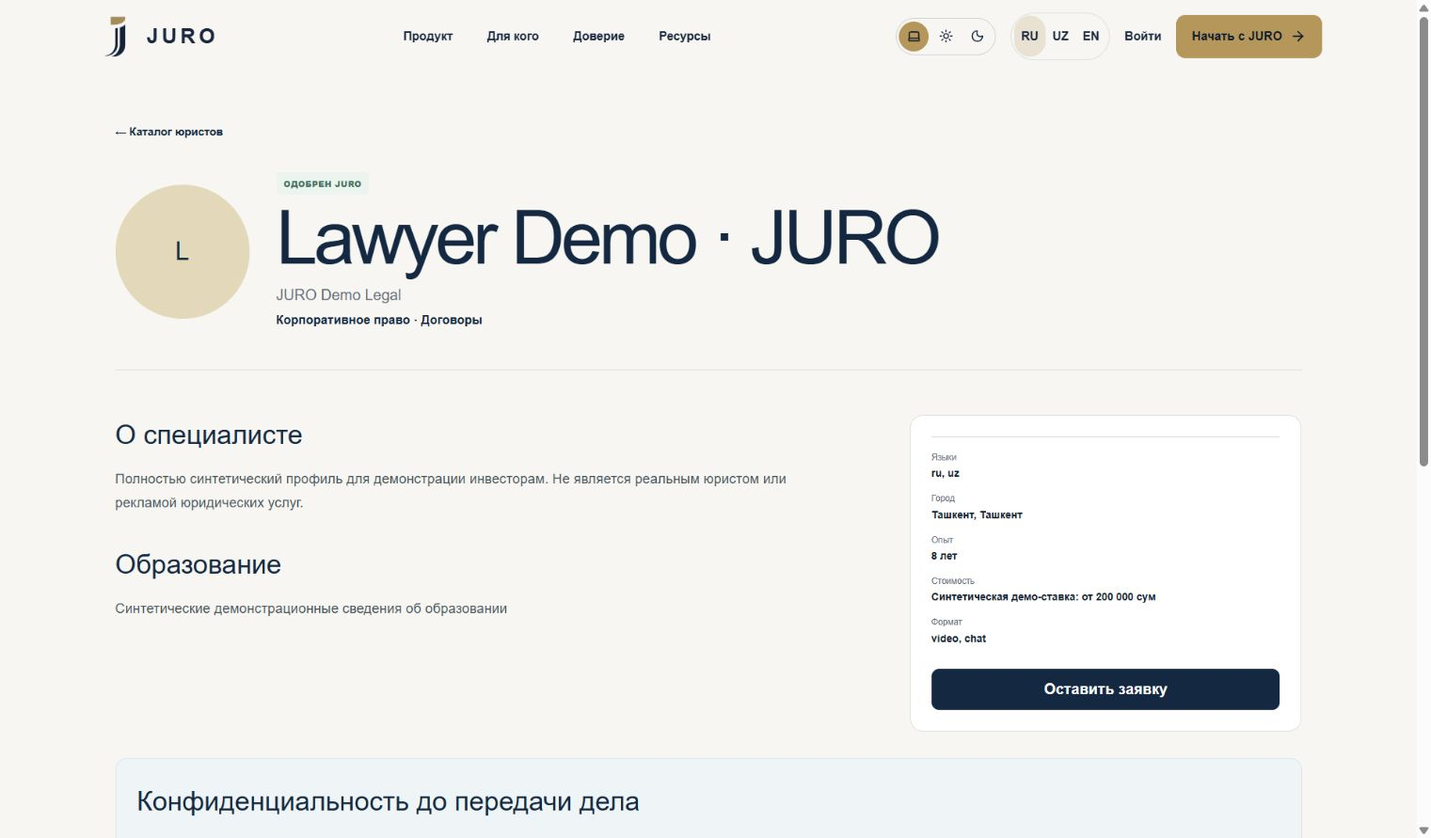
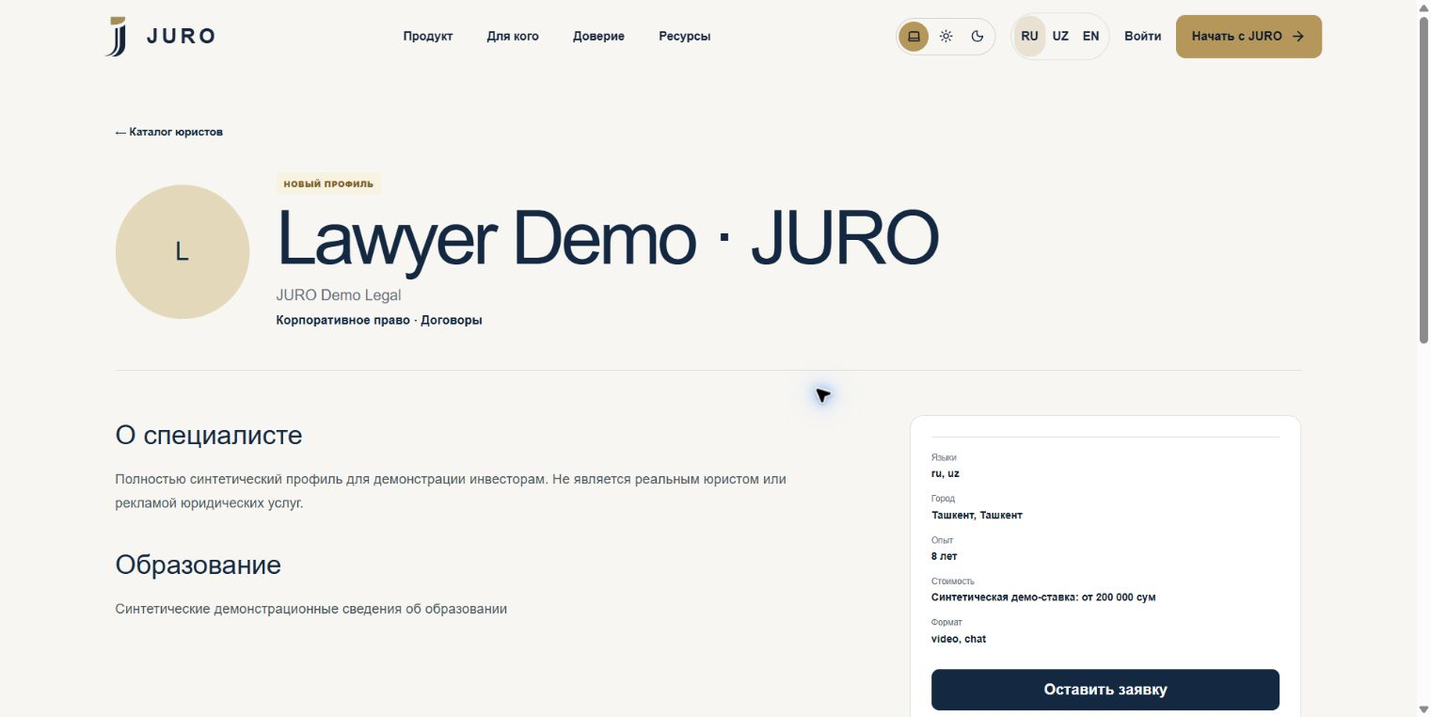
fix(investor): align lawyer publication language

diff --git a/apps/admin/src/worker.ts b/apps/admin/src/worker.ts
@@ -142,9 +142,9 @@ function lawyerMarketplaceStatus(value: string | null): (typeof LAWYER_MARKETPLA
 function lawyerStatusLabel(status: string): string {
   return {
     profile_incomplete: "Профиль не завершён",
-    pending_review: "На проверке",
+    pending_review: "Ожидает самопубликации",
     changes_requested: "Нужны исправления",
-    public_approved: "Одобрен",
+    public_approved: "Опубликован",
     rejected: "Отклонён",
     suspended: "Временно скрыт",
     blocked: "Заблокирован",
@@ -161,8 +161,8 @@ function page(environment: Env["APP_ENV"], title: string, body: string, options:
     @font-face{font-family:Manrope;font-style:normal;font-weight:200 800;font-display:swap;src:url('/assets/manrope-latin-ext.woff2') format('woff2');unicode-range:U+0100-02BA,U+02BD-02C5,U+02C7-02CC,U+02CE-02D7,U+02DD-02FF,U+0304,U+0308,U+0329,U+1D00-1DBF,U+1E00-1E9F,U+1EF2-1EFF,U+2020,U+20A0-20AB,U+20AD-20C0,U+2113,U+2C60-2C7F,U+A720-A7FF}
     @font-face{font-family:Manrope;font-style:normal;font-weight:200 800;font-display:swap;src:url('/assets/manrope-latin.woff2') format('woff2');unicode-range:U+0000-00FF,U+0131,U+0152-0153,U+02BB-02BC,U+02C6,U+02DA,U+02DC,U+0304,U+0308,U+0329,U+2000-206F,U+20AC,U+2122,U+2191,U+2193,U+2212,U+2215,U+FEFF,U+FFFD}
     :root{color-scheme:light;font-family:Manrope,"Segoe UI",sans-serif;background:#f8f6f2;color:#102333;--admin-navy:#071a2e;--admin-gold:#be974f;--admin-line:#dfe2df;--admin-muted:#647380;--admin-card:#fff}
-    *{box-sizing:border-box}body{margin:0;background:radial-gradient(circle at 88% 4%,#eadfc825,transparent 32%),#f8f6f2;color:#102333}.shell{min-height:100vh;display:grid;grid-template-columns:17rem minmax(0,1fr)}aside{position:sticky;top:0;height:100vh;background:linear-gradient(180deg,#071a2e,#0b2b45);color:#fff;padding:1.8rem 1.35rem;display:flex;flex-direction:column;gap:1.5rem;box-shadow:14px 0 44px #071a2e14}main{min-width:0;max-width:96rem;width:100%;padding:clamp(2rem,4vw,4.5rem);margin:0 auto}main>h1{margin:0 0 .45rem;color:var(--admin-navy);font-size:clamp(2rem,4vw,3.5rem);letter-spacing:-.045em;line-height:1}.brand{font-size:1.05rem;font-weight:850;letter-spacing:.16em;color:#d8b36b}.role{display:inline-flex;margin-top:.35rem;font-size:.74rem;border:1px solid #ffffff3d;border-radius:999px;padding:.32rem .58rem;color:#e8edf2}.nav{display:grid;gap:.35rem}.nav a{min-height:44px;color:#dbe7ef;text-decoration:none;padding:.65rem .75rem;border-left:3px solid transparent;border-radius:.65rem;display:flex;align-items:center;font-weight:700}.nav a:hover,.nav a:focus-visible{outline:2px solid #d8b36b;outline-offset:2px;background:#ffffff12;border-left-color:var(--admin-gold)}aside>p{color:#aebdca;line-height:1.55}.panel{min-width:0;overflow:hidden;background:var(--admin-card);border:1px solid var(--admin-line);border-radius:1.1rem;padding:clamp(1rem,2vw,1.5rem);margin:1.25rem 0;box-shadow:0 18px 50px #071a2e0d}.metrics{display:grid;grid-template-columns:repeat(auto-fit,minmax(12rem,1fr));gap:.85rem}.metric{min-height:7.2rem;padding:1.15rem;background:linear-gradient(145deg,#fff,#f8f6f2);border:1px solid var(--admin-line);border-radius:1rem;display:flex;flex-direction:column;justify-content:space-between}.metric strong{display:block;color:var(--admin-navy);font-size:2rem;letter-spacing:-.04em}.notice{background:#fff5dc;color:#5b3a00;border-left:.25rem solid var(--admin-gold);padding:.9rem 1rem;border-radius:.65rem}.filters{display:flex;flex-wrap:wrap;gap:.45rem;margin:1rem 0}.filters a{border:1px solid #8596a5;border-radius:999px;color:#102a43;padding:.45rem .7rem;text-decoration:none}.filters a[aria-current=page]{background:var(--admin-navy);border-color:var(--admin-navy);color:#fff}.filters a:hover,.filters a:focus-visible{outline:3px solid var(--admin-gold);outline-offset:2px}.scroll{max-width:100%;overflow:auto;border-radius:.75rem}table{width:100%;border-collapse:collapse}th{color:#526675;background:#f5f6f4;font-size:.75rem;letter-spacing:.04em;text-transform:uppercase}th,td{text-align:left;padding:.8rem;border-bottom:1px solid #e5e7e4;vertical-align:top}button{min-height:44px;font:inherit;background:var(--admin-navy);color:#fff;border:0;border-radius:.65rem;padding:.65rem .95rem;cursor:pointer;font-weight:750}button:hover,button:focus-visible{outline:3px solid var(--admin-gold);outline-offset:2px}input,textarea,select{font:inherit;width:100%;border:1px solid #8596a5;border-radius:.55rem;padding:.65rem}input[type=checkbox]{width:auto;margin-right:.35rem}label{display:grid;gap:.35rem;margin:.65rem 0}.actions{display:flex;gap:.5rem;flex-wrap:wrap}form.inline{display:inline}.danger{background:#812f2a}.review-body{max-width:34rem;white-space:pre-wrap;overflow-wrap:anywhere}.compact{min-width:68rem;font-size:.78rem}.code{font:600 .72rem ui-monospace,monospace;overflow-wrap:anywhere}.ok{color:#176c4c}.warn{color:#8a5a12}.flags{display:grid;grid-template-columns:repeat(auto-fit,minmax(17rem,1fr));gap:.55rem}.flags span{display:flex;justify-content:space-between;gap:.6rem;padding:.65rem;border:1px solid #dbe1e7;border-radius:.6rem}.flags code{font-size:.7rem;overflow-wrap:anywhere}.small{color:var(--admin-muted);font-size:.72rem}.corpus-actions{display:grid;grid-template-columns:repeat(auto-fit,minmax(17rem,1fr));gap:.7rem}.corpus-actions form{padding:.85rem;border:1px solid #dbe1e7;border-radius:.75rem}.corpus-actions textarea{min-height:5rem}@media(max-width:48rem){.shell{display:block}aside{position:static;height:auto;gap:.9rem;padding:1.1rem}.nav{grid-template-columns:repeat(2,minmax(0,1fr))}.nav a{min-width:0}.panel{padding:1rem}main{padding:1.2rem .9rem 3rem}.filters a{font-size:.78rem}.metrics{grid-template-columns:repeat(2,minmax(0,1fr))}}@media(max-width:26rem){.metrics{grid-template-columns:1fr}.flags,.corpus-actions{grid-template-columns:1fr}}
-    </style></head><body><div class="shell"><aside><div><div class="brand">JURO ADMIN</div><p>Изолированная консоль ${environmentLabel}</p>${role}</div><nav class="nav"><a href="/">Обзор</a><a href="/legal-corpus">Legal Corpus</a><a href="/lawyers">Профили юристов</a><a href="/reviews">Отзывы</a><a href="${escaped("/logout")}">Сеанс</a></nav><p>Отдельная cookie. Каждое действие журналируется.</p></aside><main><h1>${escaped(title)}</h1>${notice}${body}</main></div></body></html>`, { headers: securityHeaders() });
+    *{box-sizing:border-box}body{margin:0;background:radial-gradient(circle at 88% 4%,#eadfc825,transparent 32%),#f8f6f2;color:#102333}.shell{min-height:100vh;display:grid;grid-template-columns:17rem minmax(0,1fr)}aside{position:sticky;top:0;height:100vh;background:linear-gradient(180deg,#071a2e,#0b2b45);color:#fff;padding:1.8rem 1.35rem;display:flex;flex-direction:column;gap:1.5rem;box-shadow:14px 0 44px #071a2e14}main{min-width:0;max-width:96rem;width:100%;padding:clamp(2rem,4vw,4.5rem);margin:0 auto}main>h1{margin:0 0 .45rem;color:var(--admin-navy);font-size:clamp(2rem,4vw,3.5rem);letter-spacing:-.045em;line-height:1}.brand{font-size:1.05rem;font-weight:850;letter-spacing:.16em;color:#d8b36b}.role{display:inline-flex;margin-top:.35rem;font-size:.74rem;border:1px solid #ffffff3d;border-radius:999px;padding:.32rem .58rem;color:#e8edf2}.nav{display:grid;gap:.35rem}.nav a{min-height:44px;color:#dbe7ef;text-decoration:none;padding:.65rem .75rem;border-left:3px solid transparent;border-radius:.65rem;display:flex;align-items:center;font-weight:700}.nav a:hover,.nav a:focus-visible{outline:2px solid #d8b36b;outline-offset:2px;background:#ffffff12;border-left-color:var(--admin-gold)}aside>p{color:#aebdca;line-height:1.55}.eyebrow{margin:.4rem 0 .8rem;color:#916f2f;font-size:.72rem;font-weight:850;letter-spacing:.15em;text-transform:uppercase}.session-summary{display:flex;flex-wrap:wrap;gap:.45rem 1rem;margin:.65rem 0 1.5rem;color:var(--admin-muted);font-size:.88rem}.session-summary strong{color:#243b4c}.panel{min-width:0;overflow:hidden;background:var(--admin-card);border:1px solid var(--admin-line);border-radius:1.1rem;padding:clamp(1rem,2vw,1.5rem);margin:1.25rem 0;box-shadow:0 18px 50px #071a2e0d}.metrics{display:grid;grid-template-columns:repeat(auto-fit,minmax(12rem,1fr));gap:.85rem}.metric{min-height:8.2rem;padding:1.15rem;background:linear-gradient(145deg,#fff,#f8f6f2);border:1px solid var(--admin-line);border-radius:1rem;display:flex;flex-direction:column;justify-content:space-between}.metric span{color:#344e60;font-size:.86rem;font-weight:750}.metric strong{display:block;color:var(--admin-navy);font-size:2.15rem;letter-spacing:-.04em}.metric small{color:var(--admin-muted);font-size:.72rem;line-height:1.4}.dashboard-grid{display:grid;grid-template-columns:minmax(0,1.45fr) minmax(18rem,.8fr);gap:1rem}.security-list{display:grid;grid-template-columns:repeat(3,minmax(0,1fr));gap:.65rem;margin-top:1rem}.security-list div{border:1px solid #e1e3df;border-radius:.8rem;padding:.85rem;background:#fbfaf7}.security-list strong{display:block;color:var(--admin-navy);font-size:.78rem}.security-list span{display:block;margin-top:.25rem;color:var(--admin-muted);font-size:.72rem;line-height:1.45}.quick-links{display:grid;gap:.55rem;margin-top:1rem}.quick-links a{display:flex;align-items:center;justify-content:space-between;min-height:48px;padding:.7rem .8rem;border:1px solid #d7dcd9;border-radius:.75rem;color:var(--admin-navy);font-weight:750;text-decoration:none}.quick-links a::after{content:'→';color:var(--admin-gold);font-size:1.1rem}.quick-links a:hover,.quick-links a:focus-visible{outline:3px solid var(--admin-gold);outline-offset:2px;background:#fffaf0}.notice{background:#fff5dc;color:#5b3a00;border-left:.25rem solid var(--admin-gold);padding:.9rem 1rem;border-radius:.65rem}.filters{display:flex;flex-wrap:wrap;gap:.45rem;margin:1rem 0}.filters a{border:1px solid #8596a5;border-radius:999px;color:#102a43;padding:.45rem .7rem;text-decoration:none}.filters a[aria-current=page]{background:var(--admin-navy);border-color:var(--admin-navy);color:#fff}.filters a:hover,.filters a:focus-visible{outline:3px solid var(--admin-gold);outline-offset:2px}.scroll{max-width:100%;overflow:auto;border-radius:.75rem}table{width:100%;border-collapse:collapse}th{color:#526675;background:#f5f6f4;font-size:.75rem;letter-spacing:.04em;text-transform:uppercase}th,td{text-align:left;padding:.8rem;border-bottom:1px solid #e5e7e4;vertical-align:top}button{min-height:44px;font:inherit;background:var(--admin-navy);color:#fff;border:0;border-radius:.65rem;padding:.65rem .95rem;cursor:pointer;font-weight:750}button:hover,button:focus-visible{outline:3px solid var(--admin-gold);outline-offset:2px}input,textarea,select{font:inherit;width:100%;border:1px solid #8596a5;border-radius:.55rem;padding:.65rem}input[type=checkbox]{width:auto;margin-right:.35rem}label{display:grid;gap:.35rem;margin:.65rem 0}.actions{display:flex;gap:.5rem;flex-wrap:wrap}form.inline{display:inline}.danger{background:#812f2a}.review-body{max-width:34rem;white-space:pre-wrap;overflow-wrap:anywhere}.compact{min-width:68rem;font-size:.78rem}.code{font:600 .72rem ui-monospace,monospace;overflow-wrap:anywhere}.ok{color:#176c4c}.warn{color:#8a5a12}.flags{display:grid;grid-template-columns:repeat(auto-fit,minmax(17rem,1fr));gap:.55rem}.flags span{display:flex;justify-content:space-between;gap:.6rem;padding:.65rem;border:1px solid #dbe1e7;border-radius:.6rem}.flags code{font-size:.7rem;overflow-wrap:anywhere}.small{color:var(--admin-muted);font-size:.72rem}.corpus-actions{display:grid;grid-template-columns:repeat(auto-fit,minmax(17rem,1fr));gap:.7rem}.corpus-actions form{padding:.85rem;border:1px solid #dbe1e7;border-radius:.75rem}.corpus-actions textarea{min-height:5rem}@media(max-width:64rem){.dashboard-grid{grid-template-columns:1fr}}@media(max-width:48rem){.shell{display:block}aside{position:static;height:auto;gap:.9rem;padding:1.1rem}.nav{grid-template-columns:repeat(2,minmax(0,1fr))}.nav a{min-width:0}.panel{padding:1rem}main{padding:1.2rem .9rem 3rem}.filters a{font-size:.78rem}.metrics{grid-template-columns:repeat(2,minmax(0,1fr))}.security-list{grid-template-columns:1fr}}@media(max-width:26rem){.metrics{grid-template-columns:1fr}.flags,.corpus-actions{grid-template-columns:1fr}}
+    </style></head><body><div class="shell"><aside><div><div class="brand">JURO ADMIN</div><p>Изолированная консоль ${environmentLabel}</p>${role}</div><nav class="nav"><a href="/">Обзор</a><a href="/legal-corpus">Правовой корпус</a><a href="/lawyers">Профили юристов</a><a href="/reviews">Отзывы</a><a href="${escaped("/logout")}">Сеанс</a></nav><p>Отдельная cookie. Каждое действие журналируется.</p></aside><main><h1>${escaped(title)}</h1>${notice}${body}</main></div></body></html>`, { headers: securityHeaders() });
 }
 
 function securityHeaders(): Headers {
@@ -268,7 +268,7 @@ async function dashboard(request: Request, env: Env, session: string): Promise<R
   const result = await platform<Dashboard>(env, "/api/internal/admin/dashboard", { session });
   if (!result.response.ok || !result.body) return redirect(`${env.PLATFORM_ORIGIN}/ru/admin/console?reason=admin-session`);
   const data = result.body;
-  return page(env.APP_ENV, "Операционный обзор", `<p>Роль: ${escaped(data.roles.join(", "))}. Сеанс действует до ${escaped(data.expiresAt)}.</p><section class="metrics"><div class="metric"><span>Профили на проверке</span><strong>${data.counts.pendingLawyerProfiles}</strong></div><div class="metric"><span>Одобренные профили</span><strong>${data.counts.approvedLawyerProfiles}</strong></div><div class="metric"><span>Активные заявки</span><strong>${data.counts.activeLawyerRequests}</strong></div><div class="metric"><span>События аудита</span><strong>${data.counts.adminAuditEvents}</strong></div></section><section class="panel"><h2>Граница доступа</h2><p>Консоль использует отдельную host-only cookie и обращается к платформе только через service binding. Текущая сессия требует активный TOTP и свежую MFA исходного JURO-сеанса.</p></section>`, { role: data.roles.join(" · ") });
+  return page(env.APP_ENV, "Операционный обзор", `<p class="eyebrow">JURO · защищённый операционный контур</p><div class="session-summary"><span>Роль: <strong>${escaped(data.roles.join(", "))}</strong></span><span>Сеанс действует до <strong>${escaped(data.expiresAt)}</strong></span></div><section class="metrics" aria-label="Ключевые показатели"><div class="metric"><span>Ожидают самопубликации</span><strong>${data.counts.pendingLawyerProfiles}</strong><small>Профили без подтверждённого согласия на публикацию</small></div><div class="metric"><span>Опубликованные профили</span><strong>${data.counts.approvedLawyerProfiles}</strong><small>Доступны в публичном каталоге</small></div><div class="metric"><span>Активные заявки</span><strong>${data.counts.activeLawyerRequests}</strong><small>Текущие клиентские обращения</small></div><div class="metric"><span>События аудита</span><strong>${data.counts.adminAuditEvents}</strong><small>Неизменяемая история действий</small></div></section><div class="dashboard-grid"><section class="panel"><p class="eyebrow">Контроль доступа</p><h2>Изолированная административная граница</h2><p>Консоль использует отдельную host-only cookie и обращается к платформе только через service binding. Для текущей сессии обязательны активный TOTP и свежая MFA исходного JURO-сеанса.</p><div class="security-list"><div><strong>HOST-ONLY COOKIE</strong><span>Сессия не разделяется с пользовательскими поддоменами.</span></div><div><strong>SERVICE BINDING</strong><span>Внутренний API не публикуется во внешний контур.</span></div><div><strong>TOTP + FRESH MFA</strong><span>Привилегированный доступ ограничен коротким сеансом.</span></div></div></section><section class="panel"><p class="eyebrow">Быстрый доступ</p><h2>Операционные разделы</h2><nav class="quick-links" aria-label="Операционные разделы"><a href="/lawyers">Профили юристов</a><a href="/reviews">Модерация отзывов</a><a href="/legal-corpus">Правовой корпус</a></nav></section></div>`, { role: data.roles.join(" · ") });
 }
 
 async function lawyerList(request: Request, env: Env, session: string, notice?: string): Promise<Response> {
@@ -286,11 +286,11 @@ async function lawyerList(request: Request, env: Env, session: string, notice?: 
   };
   const rows = result.body.profiles.map((profile) => {
     const moderation = profile.marketplaceStatus === "pending_review"
-      ? `<form method="post" action="/lawyers/${encodeURIComponent(profile.id)}/moderate"><input type="hidden" name="_csrf" value="${escaped(csrfToken)}"><label>Причина<textarea name="reason" required maxlength="2000" minlength="1"></textarea></label><div class="actions"><button name="decision" value="approved">Одобрить</button><button name="decision" value="changes_requested">Запросить исправления</button><button class="danger" name="decision" value="rejected">Отклонить</button></div></form>`
+      ? `<form method="post" action="/lawyers/${encodeURIComponent(profile.id)}/moderate"><input type="hidden" name="_csrf" value="${escaped(csrfToken)}"><label>Причина запроса<textarea name="reason" required maxlength="2000" minlength="1"></textarea></label><div class="actions"><button name="decision" value="changes_requested">Запросить исправления</button></div></form>`
       : "";
     return `<tr><td>${escaped(profile.displayName)}<br><small>${escaped(lawyerStatusLabel(profile.marketplaceStatus))}</small></td><td>${escaped(profile.city ?? "—")}</td><td>${escaped(profile.experienceYears ?? "—")}</td><td>${escaped(profile.updatedAt)}</td><td>${moderation}${lifecycleForm(profile)}</td></tr>`;
   }).join("");
-  return page(env.APP_ENV, "Профили юристов", `<section class="panel"><p>Телефон и личный email не выдаются этой поверхности. Lifecycle-действия требуют отдельной причины; сервер повторно проверяет роль и свежую MFA.</p><nav class="filters" aria-label="Статус профиля">${filters}</nav><div class="scroll"><table><thead><tr><th>Профиль</th><th>Город</th><th>Стаж</th><th>Изменён</th><th>Модерация и lifecycle</th></tr></thead><tbody>${rows || `<tr><td colspan="5">Нет профилей со статусом «${escaped(lawyerStatusLabel(selectedStatus))}».</td></tr>`}</tbody></table></div></section>`, { notice, role: "lawyer moderation" });
+  return page(env.APP_ENV, "Профили юристов", `<section class="panel"><p>Телефон и личный email не выдаются этой поверхности. Профили публикуются самим юристом после обязательных полей и согласия; контрольные действия требуют причины, роли и свежей MFA.</p><nav class="filters" aria-label="Статус профиля">${filters}</nav><div class="scroll"><table><thead><tr><th>Профиль</th><th>Город</th><th>Стаж</th><th>Изменён</th><th>Контроль и lifecycle</th></tr></thead><tbody>${rows || `<tr><td colspan="5">Нет профилей со статусом «${escaped(lawyerStatusLabel(selectedStatus))}».</td></tr>`}</tbody></table></div></section>`, { notice, role: "контроль профилей" });
 }
 
 async function moderate(request: Request, env: Env, session: string, profileId: string): Promise<Response> {

diff --git a/apps/website/app/[locale]/lawyers/page.tsx b/apps/website/app/[locale]/lawyers/page.tsx
@@ -10,9 +10,9 @@ export const dynamic = "force-dynamic";
 type Props = { params: Promise<{ locale: string }>; searchParams: Promise<Record<string, string | string[] | undefined>> };
 
 const copy = {
-  ru: { title: "Юристы и адвокаты", description: "Публичный каталог специалистов JURO: специализации, опыт, язык и доступность.", eyebrow: "JURO · ЖИВОЙ ЮРИСТ", heading: "Найдите юриста для следующего шага", lead: "Сравните специализации, опыт и формат консультации. Перед передачей материалов дела JURO всегда запросит ваше отдельное согласие.", catalogue: "Каталог специалистов", filters: "Фильтры каталога", search: "Поиск", searchHint: "Имя, фирма или специализация", specialty: "Специализация", all: "Все", language: "Язык", any: "Любой", availability: "Доступность", available: "Доступен", limited: "Ограниченная", experience: "Опыт", show: "Показать", unavailable: "Каталог временно обновляется. Попробуйте позже.", count: "Найдено специалистов", pendingHeading: "Профили на проверке JURO", pendingLead: "Эти специалисты завершили публичный профиль. Пока проверка не завершена, оставить заявку нельзя.", emptyHeading: "Подходящих профилей пока нет", emptyLead: "Измените фильтры или вернитесь позже: каталог пополняется после проверки профилей." },
-  uz: { title: "Yuristlar va advokatlar", description: "JURO mutaxassislari ochiq katalogi: yo‘nalish, tajriba, til va mavjudlik.", eyebrow: "JURO · JONLI YURIST", heading: "Keyingi qadam uchun yurist toping", lead: "Mutaxassislik, tajriba va maslahat formatini taqqoslang. Ish materiallarini topshirishdan oldin JURO har doim alohida roziligingizni so‘raydi.", catalogue: "Mutaxassislar katalogi", filters: "Katalog filtrlari", search: "Qidiruv", searchHint: "Ism, firma yoki mutaxassislik", specialty: "Mutaxassislik", all: "Barchasi", language: "Til", any: "Istalgan", availability: "Mavjudlik", available: "Mavjud", limited: "Cheklangan", experience: "Tajriba", show: "Ko‘rsatish", unavailable: "Katalog vaqtincha yangilanmoqda. Keyinroq urinib ko‘ring.", count: "Topilgan mutaxassislar", pendingHeading: "JURO tekshiruvidagi profillar", pendingLead: "Bu mutaxassislar ochiq profilini to‘ldirgan. Tekshiruv tugamaguncha so‘rov qoldirib bo‘lmaydi.", emptyHeading: "Mos profillar hozircha yo‘q", emptyLead: "Filtrlarni o‘zgartiring yoki keyinroq qayting: katalog profillar tekshirilgach to‘ldiriladi." },
-  en: { title: "Legal professionals", description: "JURO’s public catalogue of professionals: specialisms, experience, languages and availability.", eyebrow: "JURO · LEGAL PROFESSIONAL", heading: "Find a professional for the next step", lead: "Compare specialisms, experience and consultation formats. JURO will always request your separate confirmation before case materials are shared.", catalogue: "Professional catalogue", filters: "Catalogue filters", search: "Search", searchHint: "Name, firm or specialism", specialty: "Specialism", all: "All", language: "Language", any: "Any", availability: "Availability", available: "Available", limited: "Limited", experience: "Experience", show: "Show results", unavailable: "The catalogue is being updated. Please try again later.", count: "Professionals found", pendingHeading: "Profiles under JURO review", pendingLead: "These professionals have completed a public profile. Requests are unavailable until JURO’s review is complete.", emptyHeading: "No matching profiles yet", emptyLead: "Change the filters or return later: the catalogue grows after profiles are reviewed." },
+  ru: { title: "Юристы и адвокаты", description: "Публичный каталог специалистов JURO: специализации, опыт, язык и доступность.", eyebrow: "JURO · ЖИВОЙ ЮРИСТ", heading: "Найдите юриста для следующего шага", lead: "Сравните специализации, опыт и формат консультации. Перед передачей материалов дела JURO всегда запросит ваше отдельное согласие.", catalogue: "Каталог специалистов", filters: "Фильтры каталога", search: "Поиск", searchHint: "Имя, фирма или специализация", specialty: "Специализация", all: "Все", language: "Язык", any: "Любой", availability: "Доступность", available: "Доступен", limited: "Ограниченная", experience: "Опыт", show: "Показать", unavailable: "Каталог временно обновляется. Попробуйте позже.", count: "Найдено специалистов", pendingHeading: "Профили дополняются", pendingLead: "Эти публичные профили ещё заполняют обязательные профессиональные сведения, поэтому заявки временно недоступны.", emptyHeading: "Подходящих профилей пока нет", emptyLead: "Измените фильтры или вернитесь позже: каталог пополняется автоматически после заполнения обязательных сведений и согласия на публикацию." },
+  uz: { title: "Yuristlar va advokatlar", description: "JURO mutaxassislari ochiq katalogi: yo‘nalish, tajriba, til va mavjudlik.", eyebrow: "JURO · JONLI YURIST", heading: "Keyingi qadam uchun yurist toping", lead: "Mutaxassislik, tajriba va maslahat formatini taqqoslang. Ish materiallarini topshirishdan oldin JURO har doim alohida roziligingizni so‘raydi.", catalogue: "Mutaxassislar katalogi", filters: "Katalog filtrlari", search: "Qidiruv", searchHint: "Ism, firma yoki mutaxassislik", specialty: "Mutaxassislik", all: "Barchasi", language: "Til", any: "Istalgan", availability: "Mavjudlik", available: "Mavjud", limited: "Cheklangan", experience: "Tajriba", show: "Ko‘rsatish", unavailable: "Katalog vaqtincha yangilanmoqda. Keyinroq urinib ko‘ring.", count: "Topilgan mutaxassislar", pendingHeading: "Profillar to‘ldirilmoqda", pendingLead: "Bu ochiq profillarda majburiy professional ma’lumotlar hali to‘ldirilmoqda, shu sababli so‘rovlar vaqtincha yopiq.", emptyHeading: "Mos profillar hozircha yo‘q", emptyLead: "Filtrlarni o‘zgartiring yoki keyinroq qayting: katalog majburiy ma’lumotlar va e’lon qilish roziligi to‘ldirilgach avtomatik kengayadi." },
+  en: { title: "Legal professionals", description: "JURO’s public catalogue of professionals: specialisms, experience, languages and availability.", eyebrow: "JURO · LEGAL PROFESSIONAL", heading: "Find a professional for the next step", lead: "Compare specialisms, experience and consultation formats. JURO will always request your separate confirmation before case materials are shared.", catalogue: "Professional catalogue", filters: "Catalogue filters", search: "Search", searchHint: "Name, firm or specialism", specialty: "Specialism", all: "All", language: "Language", any: "Any", availability: "Availability", available: "Available", limited: "Limited", experience: "Experience", show: "Show results", unavailable: "The catalogue is being updated. Please try again later.", count: "Professionals found", pendingHeading: "Profiles being completed", pendingLead: "These public profiles are still completing required professional details, so requests are temporarily unavailable.", emptyHeading: "No matching profiles yet", emptyLead: "Change the filters or return later: the catalogue grows automatically after required details and publication consent are complete." },
 } as const;
 
 function localeOf(value: string): PublicLanguage | null { return value === "ru" || value === "uz" || value === "en" ? value : null; }

diff --git a/apps/website/app/[locale]/lawyers/[profileId]/page.tsx b/apps/website/app/[locale]/lawyers/[profileId]/page.tsx
@@ -12,9 +12,9 @@ type Props = { params: Promise<{ locale: string; profileId: string }> };
 function localeOf(value: string): PublicLanguage | null { return value === "ru" || value === "uz" || value === "en" ? value : null; }
 
 const copy = {
-  ru: { back: "Каталог юристов", pending: "ПРОФИЛЬ НА ПРОВЕРКЕ JURO", newProfile: "НОВЫЙ ПРОФИЛЬ", independent: "Независимый специалист", pendingNotice: "Профиль уже публичный, но запись станет доступна только после завершения проверки JURO.", about: "О специалисте", unknown: "Профессиональная информация уточняется.", education: "Образование", languages: "Языки", city: "Город", experience: "Опыт", price: "Стоимость", format: "Формат", request: "Оставить заявку", privacy: "Конфиденциальность до передачи дела", privacyLead: "Контактные данные не публикуются. Юрист получает ограниченное описание для проверки конфликта интересов; материалы дела передаются только после вашего отдельного подтверждения.", years: "лет" },
-  uz: { back: "Yuristlar katalogi", pending: "PROFIL JURO TEKSHIRUVIDA", newProfile: "YANGI PROFIL", independent: "Mustaqil mutaxassis", pendingNotice: "Profil ochiq, biroq so‘rov yuborish faqat JURO tekshiruvi tugagandan keyin mumkin.", about: "Mutaxassis haqida", unknown: "Kasbiy ma’lumot aniqlashtirilmoqda.", education: "Ta’lim", languages: "Tillar", city: "Shahar", experience: "Tajriba", price: "Narx", format: "Format", request: "So‘rov qoldirish", privacy: "Ish topshirilishidan oldingi maxfiylik", privacyLead: "Kontakt ma’lumotlari ochiq e’lon qilinmaydi. Yurist manfaatlar to‘qnashuvini tekshirish uchun cheklangan tavsif oladi; ish materiallari faqat alohida tasdiqlashingizdan keyin beriladi.", years: "yil" },
-  en: { back: "Professional catalogue", pending: "PROFILE UNDER JURO REVIEW", newProfile: "NEW PROFILE", independent: "Independent professional", pendingNotice: "This profile is public, but requests become available only after JURO’s review is complete.", about: "About this professional", unknown: "Professional information is being clarified.", education: "Education", languages: "Languages", city: "City", experience: "Experience", price: "Price", format: "Format", request: "Request a consultation", privacy: "Privacy before case handoff", privacyLead: "Contact details are not published. The professional receives a limited description to check conflicts of interest; case materials are shared only after your separate confirmation.", years: "years" },
+  ru: { back: "Каталог юристов", pending: "ПРОФИЛЬ ДОПОЛНЯЕТСЯ", newProfile: "НОВЫЙ ПРОФИЛЬ", independent: "Независимый специалист", pendingNotice: "Профиль уже публичный, но заявки станут доступны после заполнения обязательных профессиональных сведений.", about: "О специалисте", unknown: "Профессиональная информация уточняется.", education: "Образование", languages: "Языки", city: "Город", experience: "Опыт", price: "Стоимость", format: "Формат", request: "Оставить заявку", privacy: "Конфиденциальность до передачи дела", privacyLead: "Контактные данные не публикуются. Юрист получает ограниченное описание для проверки конфликта интересов; материалы дела передаются только после вашего отдельного подтверждения.", years: "лет" },
+  uz: { back: "Yuristlar katalogi", pending: "PROFIL TO‘LDIRILMOQDA", newProfile: "YANGI PROFIL", independent: "Mustaqil mutaxassis", pendingNotice: "Profil ochiq, biroq so‘rovlar majburiy professional ma’lumotlar to‘ldirilgandan keyin ochiladi.", about: "Mutaxassis haqida", unknown: "Kasbiy ma’lumot aniqlashtirilmoqda.", education: "Ta’lim", languages: "Tillar", city: "Shahar", experience: "Tajriba", price: "Narx", format: "Format", request: "So‘rov qoldirish", privacy: "Ish topshirilishidan oldingi maxfiylik", privacyLead: "Kontakt ma’lumotlari ochiq e’lon qilinmaydi. Yurist manfaatlar to‘qnashuvini tekshirish uchun cheklangan tavsif oladi; ish materiallari faqat alohida tasdiqlashingizdan keyin beriladi.", years: "yil" },
+  en: { back: "Professional catalogue", pending: "PROFILE DETAILS IN PROGRESS", newProfile: "NEW PROFILE", independent: "Independent professional", pendingNotice: "This profile is public, but requests become available after the required professional details are completed.", about: "About this professional", unknown: "Professional information is being clarified.", education: "Education", languages: "Languages", city: "City", experience: "Experience", price: "Price", format: "Format", request: "Request a consultation", privacy: "Privacy before case handoff", privacyLead: "Contact details are not published. The professional receives a limited description to check conflicts of interest; case materials are shared only after your separate confirmation.", years: "years" },
 } as const;
 
 export async function generateMetadata({ params }: Props): Promise<Metadata> {

diff --git a/apps/website/app/[locale]/lawyers/LawyerCard.tsx b/apps/website/app/[locale]/lawyers/LawyerCard.tsx
@@ -8,7 +8,7 @@ import styles from "./lawyers.module.css";
 export function LawyerCard({ lawyer, locale }: { lawyer: PublicLawyer; locale: PublicLanguage }) {
   const ru = locale === "ru";
   const en = locale === "en";
-  const t = en ? { independent: "Independent professional", pending: "Profile is under JURO review", newProfile: "New profile", advocate: "Advocate status verified", city: "City", experience: "Experience", languages: "Languages", price: "Price", noRating: "A rating appears after 3 approved reviews", profile: "Profile", appointment: "Requests after review", request: "Request a consultation", years: "years" } : ru ? { independent: "Независимый специалист", pending: "Профиль проверяется JURO", newProfile: "Новый профиль", advocate: "Статус адвоката подтверждён", city: "Город", experience: "Опыт", languages: "Языки", price: "Стоимость", noRating: "Рейтинг появится после 3 одобренных отзывов", profile: "Профиль", appointment: "Запись после проверки", request: "Оставить заявку", years: "лет" } : { independent: "Mustaqil mutaxassis", pending: "Profil JURO tomonidan tekshirilmoqda", newProfile: "Yangi profil", advocate: "Advokat maqomi tasdiqlangan", city: "Shahar", experience: "Tajriba", languages: "Tillar", price: "Narx", noRating: "Reyting 3 ta tasdiqlangan fikrdan keyin ko‘rinadi", profile: "Profil", appointment: "Tekshiruvdan keyin", request: "So‘rov qoldirish", years: "yil" };
+  const t = en ? { independent: "Independent professional", pending: "Profile details are being completed", newProfile: "New profile", advocate: "Advocate status verified", city: "City", experience: "Experience", languages: "Languages", price: "Price", noRating: "A rating appears after 3 approved reviews", profile: "Profile", appointment: "Requests after completion", request: "Request a consultation", years: "years" } : ru ? { independent: "Независимый специалист", pending: "Профиль дополняется", newProfile: "Новый профиль", advocate: "Статус адвоката подтверждён", city: "Город", experience: "Опыт", languages: "Языки", price: "Стоимость", noRating: "Рейтинг появится после 3 одобренных отзывов", profile: "Профиль", appointment: "Заявки после заполнения", request: "Оставить заявку", years: "лет" } : { independent: "Mustaqil mutaxassis", pending: "Profil ma’lumotlari to‘ldirilmoqda", newProfile: "Yangi profil", advocate: "Advokat maqomi tasdiqlangan", city: "Shahar", experience: "Tajriba", languages: "Tillar", price: "Narx", noRating: "Reyting 3 ta tasdiqlangan fikrdan keyin ko‘rinadi", profile: "Profil", appointment: "To‘ldirilgandan keyin", request: "So‘rov qoldirish", years: "yil" };
   const pending = lawyer.marketplaceStatus === "pending_review";
   const profileHref = `/${locale}/lawyers/${encodeURIComponent(lawyer.id)}`;
   const consultationHref = `https://app.juro.uz/${locale === "en" ? "ru" : locale}/individual/consultations?lawyer=${encodeURIComponent(lawyer.id)}`;

diff --git a/apps/platform/lib/platform/lawyer-profile-notifications.ts b/apps/platform/lib/platform/lawyer-profile-notifications.ts
@@ -23,16 +23,16 @@ export function localizedLawyerProfileStatusNotification(
         body: "Marketpleysga yuborish uchun majburiy maydonlarni to‘ldiring.",
       },
       pending_review: {
-        title: "Yurist profilingiz tekshiruvga yuborildi",
-        body: "JURO moderatori profilingizni ko‘rib chiqadi. Tekshiruv tugaguncha yangi mijoz so‘rovlarini qabul qilib bo‘lmaydi.",
+        title: "Yurist profilingiz e’lon qilishga tayyor",
+        body: "Ochiq ko‘rinishni tekshiring va e’lon qilishga rozilikni tasdiqlang. Tasdiqlanguncha yangi mijoz so‘rovlarini qabul qilib bo‘lmaydi.",
       },
       public_approved: {
-        title: "Yurist profilingiz tasdiqlandi",
-        body: `Profilingiz JURO marketpleysida qabul qilindi.${suffix}`,
+        title: "Yurist profilingiz e’lon qilindi",
+        body: `Profilingiz JURO marketpleysida ochiq e’lon qilindi.${suffix}`,
       },
       changes_requested: {
         title: "Yurist profilingizni to‘ldirish kerak",
-        body: `Qayta ko‘rib chiqishdan oldin ko‘rsatilgan izohni tuzating.${suffix}`,
+        body: `Qayta e’lon qilishdan oldin ko‘rsatilgan izohni tuzating.${suffix}`,
       },
       rejected: {
         title: "Yurist profilingiz rad etildi",
@@ -59,16 +59,16 @@ export function localizedLawyerProfileStatusNotification(
       body: "Заполните обязательные поля, чтобы отправить профиль в маркетплейс.",
     },
     pending_review: {
-      title: "Профиль юриста отправлен на проверку",
-      body: "Модератор JURO проверит профиль. До завершения проверки нельзя принимать новые клиентские заявки.",
+      title: "Профиль юриста готов к публикации",
+      body: "Проверьте публичный вид и подтвердите согласие на публикацию. До подтверждения новые клиентские заявки недоступны.",
     },
     public_approved: {
-      title: "Профиль юриста одобрен",
-      body: `Профиль принят в маркетплейс JURO.${suffix}`,
+      title: "Профиль юриста опубликован",
+      body: `Профиль публично размещён в маркетплейсе JURO.${suffix}`,
     },
     changes_requested: {
       title: "Профиль юриста нужно доработать",
-      body: `Исправьте профиль перед повторной проверкой.${suffix}`,
+      body: `Исправьте замечания перед повторной публикацией.${suffix}`,
     },
     rejected: {
       title: "Профиль юриста отклонён",

diff --git a/apps/platform/tests/lawyer-marketplace-lifecycle.test.ts b/apps/platform/tests/lawyer-marketplace-lifecycle.test.ts
@@ -31,7 +31,7 @@ const completeProfile: LawyerMarketplaceCompletionInput = {
   hasPhone: true,
 };
 
-test("a lawyer profile is reviewable only after every required professional field is present", () => {
+test("a lawyer profile is ready for self-publication only after every required professional field is present", () => {
   assert.equal(isLawyerMarketplaceProfileComplete(completeProfile), true);
   assert.equal(marketplaceStatusAfterProfileEdit(completeProfile), "pending_review");
 
@@ -41,7 +41,7 @@ test("a lawyer profile is reviewable only after every required professional fiel
   assert.equal(marketplaceStatusAfterProfileEdit(incomplete), "profile_incomplete");
 });
 
-test("only an approved profile may receive a client request", () => {
+test("only a published profile may receive a client request", () => {
   assert.equal(mayReceiveLawyerRequests("profile_incomplete"), false);
   assert.equal(mayReceiveLawyerRequests("pending_review"), false);
   assert.equal(mayReceiveLawyerRequests("changes_requested"), false);
@@ -78,8 +78,11 @@ test("profile status notifications are localized and preserve only a bounded rev
   assert.equal(ru.title, "Профиль юриста нужно доработать");
   assert.match(ru.body, /Уточните формат консультации\./u);
   const uz = localizedLawyerProfileStatusNotification("uz", "pending_review");
-  assert.equal(uz.title, "Yurist profilingiz tekshiruvga yuborildi");
+  assert.equal(uz.title, "Yurist profilingiz e’lon qilishga tayyor");
   assert.doesNotMatch(uz.body, /Izoh:/u);
+  const published = localizedLawyerProfileStatusNotification("ru", "public_approved");
+  assert.equal(published.title, "Профиль юриста опубликован");
+  assert.doesNotMatch(published.body, /одобрен|проверен/iu);
 });
 
 test("lawyer scheduling persists recurring hours and bounded unavailability", () => {

diff --git a/apps/platform/tests/admin-domain-handoff.test.ts b/apps/platform/tests/admin-domain-handoff.test.ts
@@ -448,6 +448,10 @@ test("admin handoff route requires same-origin write protection and current MFA"
   assert.match(adminWorker, /<div class="scroll"><table>/u);
   assert.match(adminWorker, /\.panel\{min-width:0;overflow:hidden/u);
   assert.match(adminWorker, /События аудита/u);
+  assert.match(adminWorker, /Ожидают самопубликации/u);
+  assert.match(adminWorker, /Опубликованные профили/u);
+  assert.match(adminWorker, /Правовой корпус/u);
+  assert.doesNotMatch(adminWorker, /Профили на проверке|Одобренные профили/u);
   assert.doesNotMatch(adminWorker, />Audit events</u);
   assert.doesNotMatch(adminWorker, /font-family:Inter/iu);
   assert.match(internal, /lawyer\.profiles\.block/u);

diff --git a/apps/platform/app/_platform/LawyerWorkspaceClient.tsx b/apps/platform/app/_platform/LawyerWorkspaceClient.tsx
@@ -44,7 +44,7 @@ export function useLawyerWorkspace() {
 function statusCopy(status: string, ru: boolean) {
   const values: Record<string, [string, string]> = {
     profile_incomplete: ["Заполните профиль", "Profilni to‘ldiring"],
-    pending_review: ["Профиль на проверке JURO", "Profil JURO tekshiruvida"],
+    pending_review: ["Подтвердите публикацию профиля", "Profil nashrini tasdiqlang"],
     changes_requested: ["Нужны исправления", "Tuzatishlar kerak"],
     public_approved: ["Профиль опубликован", "Profil e’lon qilingan"],
     rejected: ["Публикация отклонена", "E’lon rad etildi"],

diff --git a/apps/platform/app/_platform/LawyerProfessionalProfile.tsx b/apps/platform/app/_platform/LawyerProfessionalProfile.tsx
@@ -906,7 +906,7 @@ export function LawyerProfessionalProfile({
 function statusLabel(status: Profile["marketplaceStatus"], ru: boolean) {
   const labels: Record<Profile["marketplaceStatus"], [string, string]> = {
     profile_incomplete: ["Черновик", "Qoralama"],
-    pending_review: ["На проверке JURO", "JURO tekshiruvida"],
+    pending_review: ["Подтвердите публикацию", "Nashrni tasdiqlang"],
     changes_requested: ["Нужны изменения", "O‘zgartirish kerak"],
     public_approved: ["Профиль опубликован", "Profil nashr etilgan"],
     rejected: ["Заявка отклонена", "Ariza rad etilgan"],
